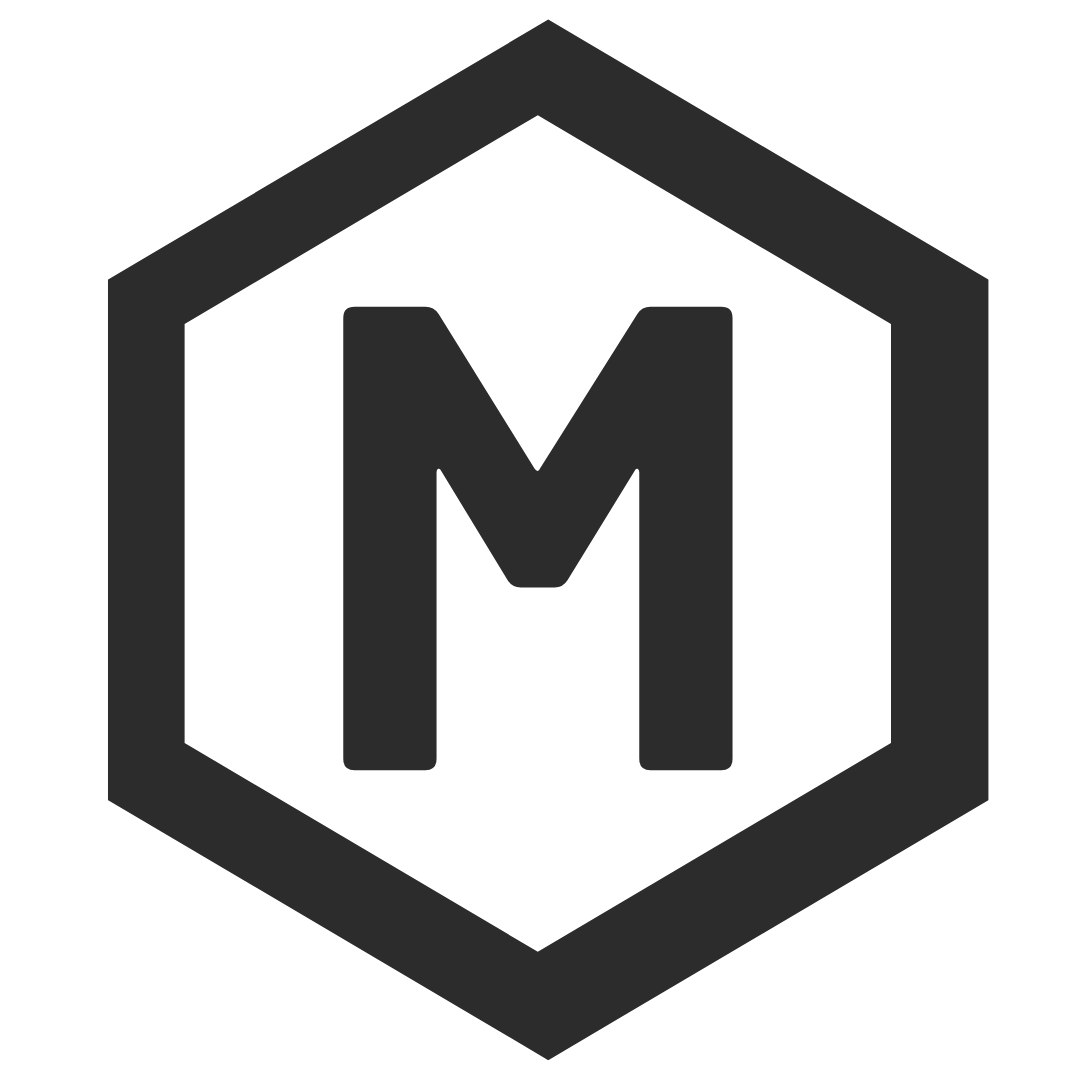
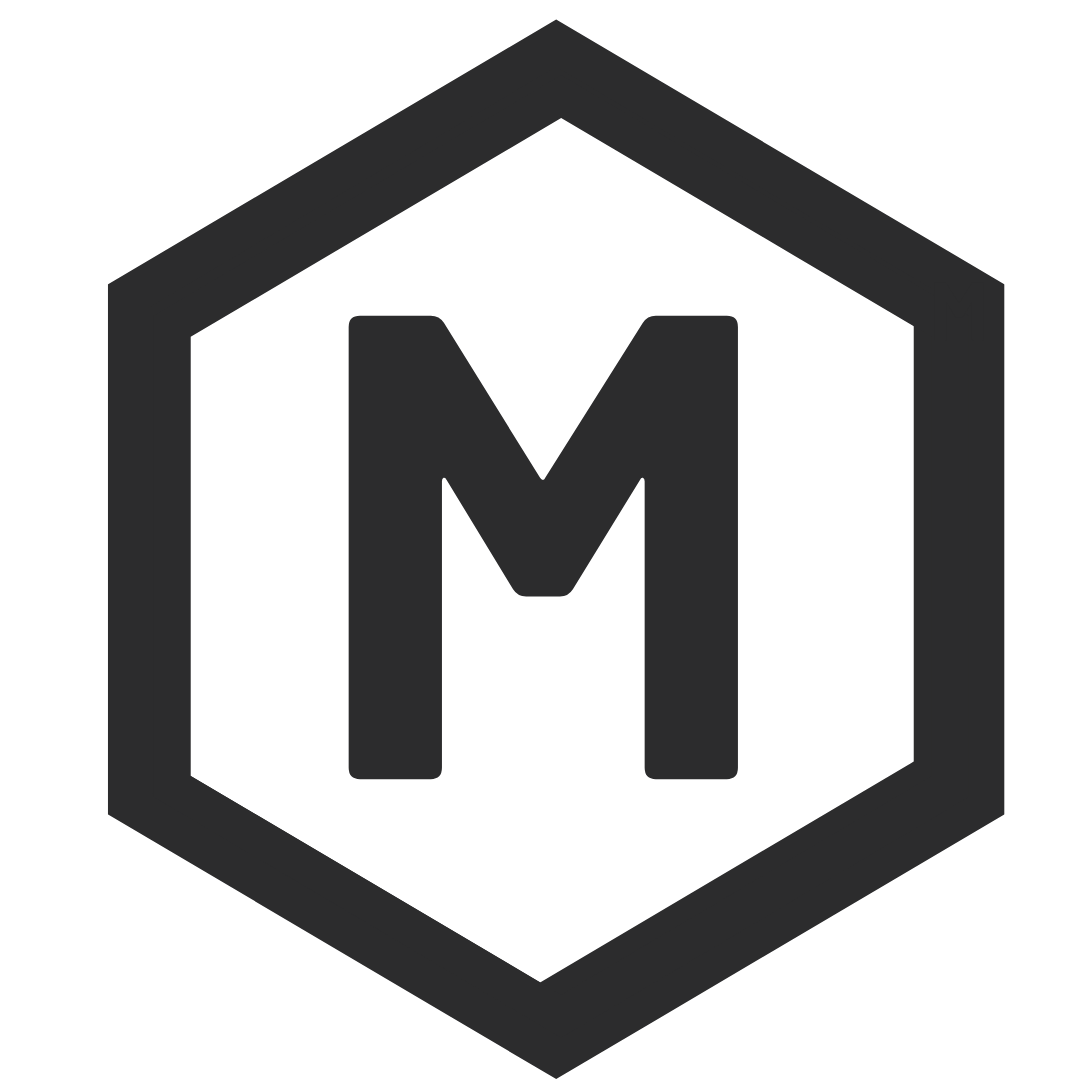
__fire__

diff --git a/index.html b/index.html
@@ -21,13 +21,13 @@
     <!-- <h1>Hello World</h1> -->
 
     <!-- Media Monk -->
-    <h1 style="color: #FF0000 !important">Media <img src="assets/imgs/M.png" alt="M" style="height: 50px;position: relative; top: 13px;">onk</h1>
+    <h1 style="color: #2C2C2D !important">Media <img src="assets/imgs/M.png" alt="M" style="height: 60px;position: relative; top: 13px;left: 3px;">onk</h1>
     <div class="container">
         <!-- Main Container -->
         <div class="pictures">
             <!-- Sub Picture Container -->
                 <!-- Image 1 -->
-            <img src="assets/imgs/img1.png" alt="image1" class="imgs">
+            <img src="assets/imgs/img1.jpg" alt="image1" class="imgs">
                 <!-- Image 2 -->
             <img src="assets/imgs/img2.jpg" alt="image2" class="imgs">
                 <!-- Image 3 -->
@@ -40,9 +40,9 @@
         <!-- Arrows Controllers Module -->
         <div class="arrows">
             <!-- Right Arrow Module -->
-            <div class="arrow right_arrow">></div>
+            <div class="arrow right_arrow"><img src="assets/imgs/r.png" style="height: 25px"></div>
             <!-- Left Arrow Modules -->
-            <div class="arrow left_arrow"><</div>
+            <div class="arrow left_arrow"><img src="assets/imgs/l.png" style="height: 25px"></div>
         </div>
     </div>
     <script src="script.js"></script>

diff --git a/style.css b/style.css
@@ -6,9 +6,9 @@ html,body{
     /* Overflow */
     overflow: hidden !important;
     /* Background Color */
-    background: #1d1e21 !important;
+    background: #EAE8E4 !important;
     /* Text Color */
-    color: #FF0000 !important;
+    color: #2C2C2D !important;
     /* Height */
     height: 100%;
 }
@@ -25,7 +25,7 @@ html {
 }
 
 ::-webkit-scrollbar-thumb {
-    background: #FF0000;
+    background: #2C2C2D;
 }
 
 /* Body */
@@ -42,7 +42,7 @@ body{
     top: 20px !important;
     width: 300px;
     height: 250px;
-    border: 3px solid #FF0000;
+    border: 3px solid #2C2C2D;
     border-radius:11px;
     box-shadow: 0 3px 6px rgba(0, 0 , 0, 0.2);        
 }
@@ -71,7 +71,7 @@ body{
             height: 40px;
             width: 40px;
             border-radius: 7px;
-            background-color: #FF0000;
+            background-color: #2C2C2D;
             opacity: 0.5s;
             transition: ease 0.3s;
             cursor: pointer
